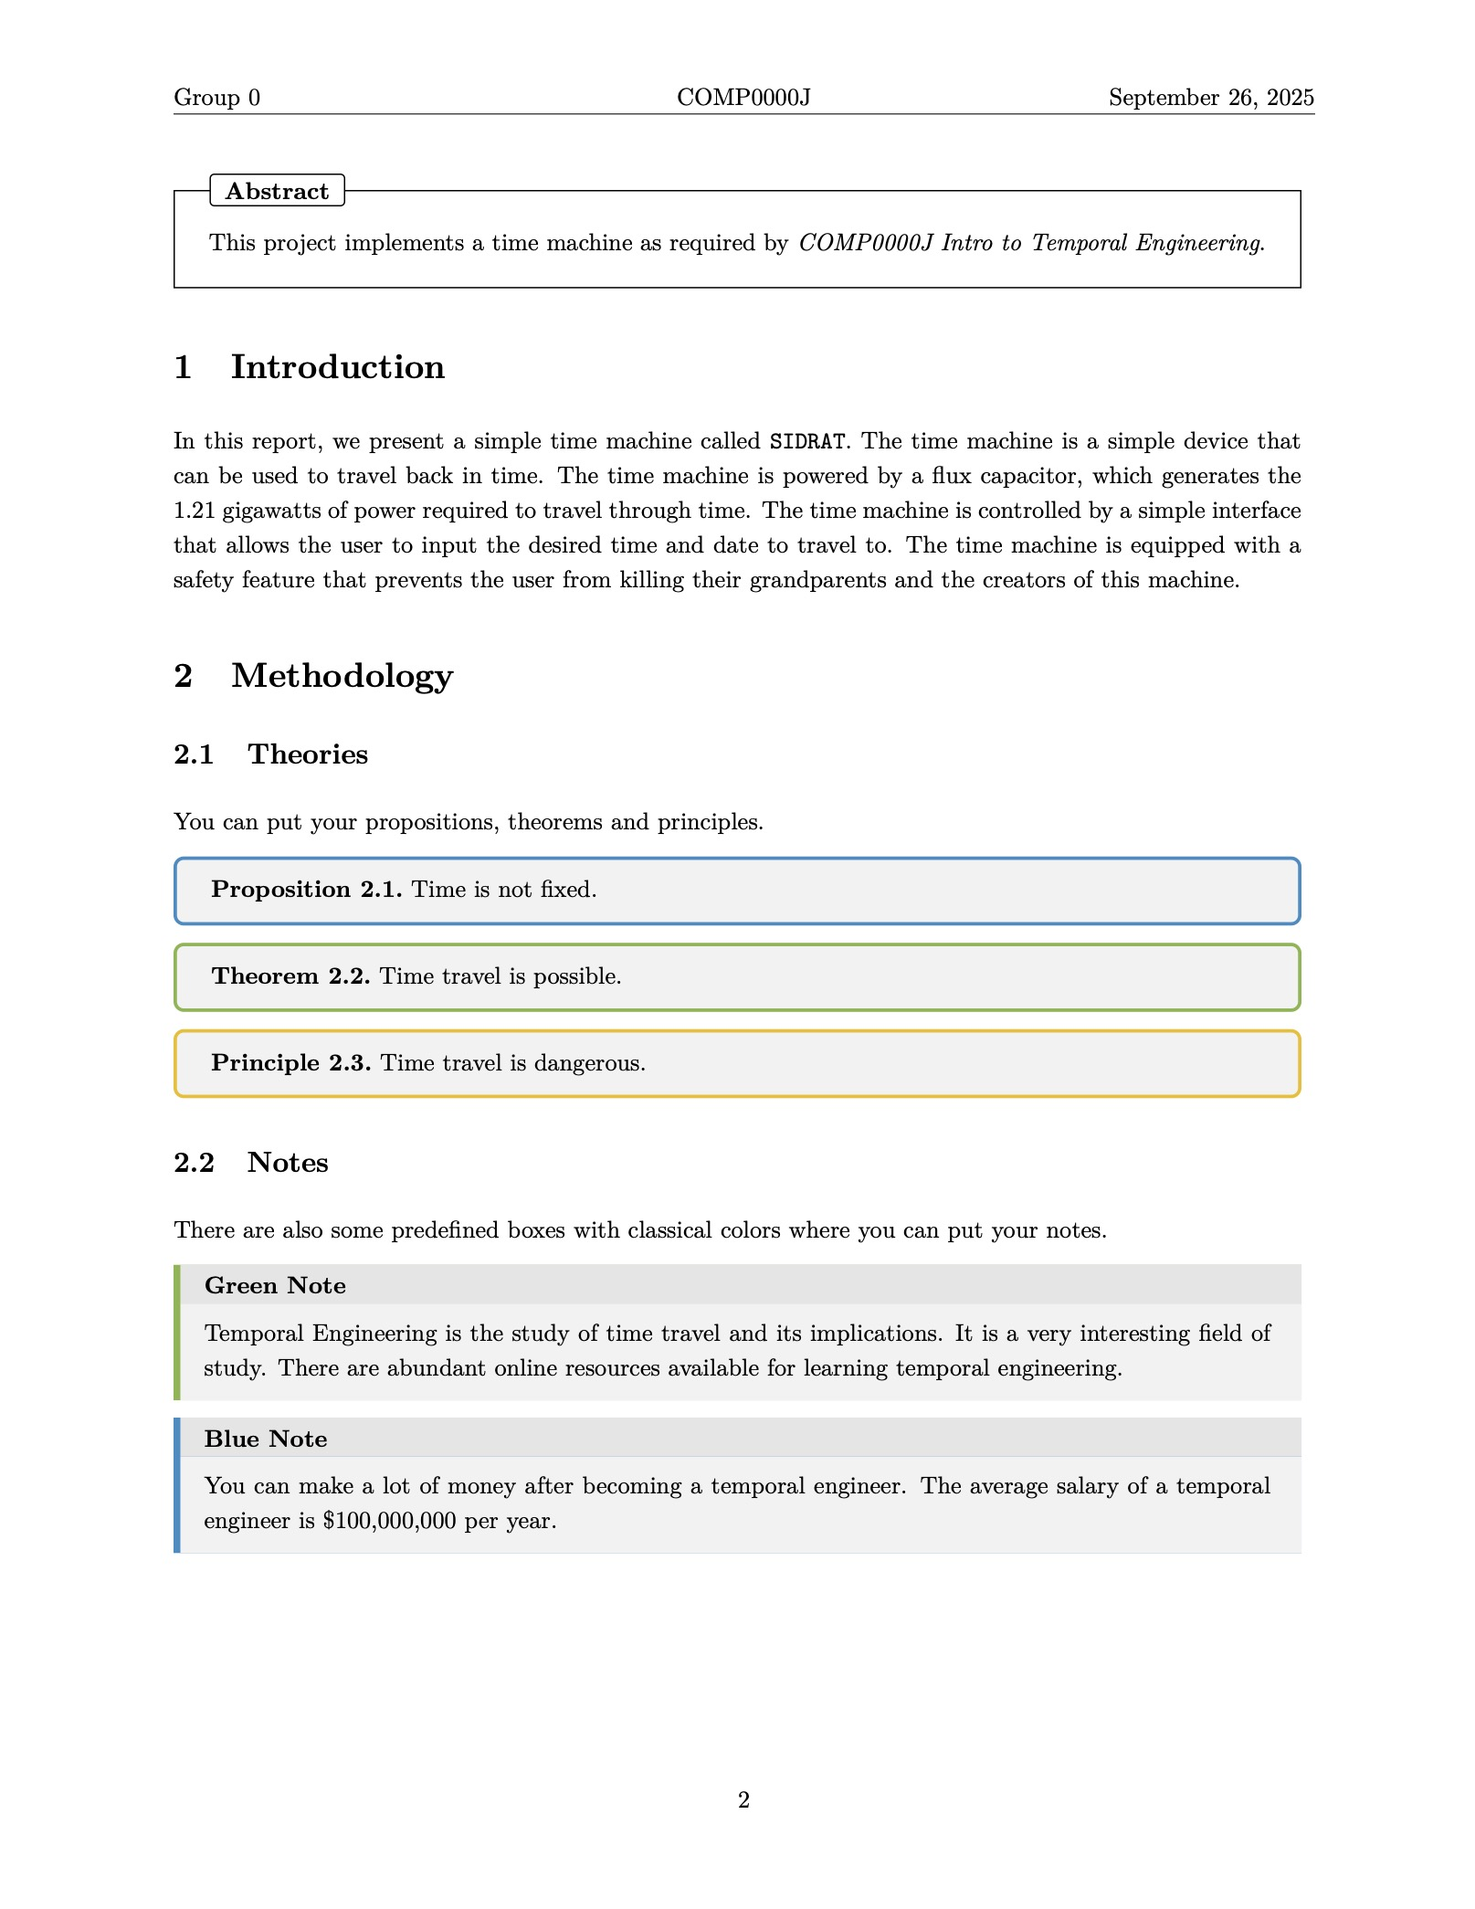
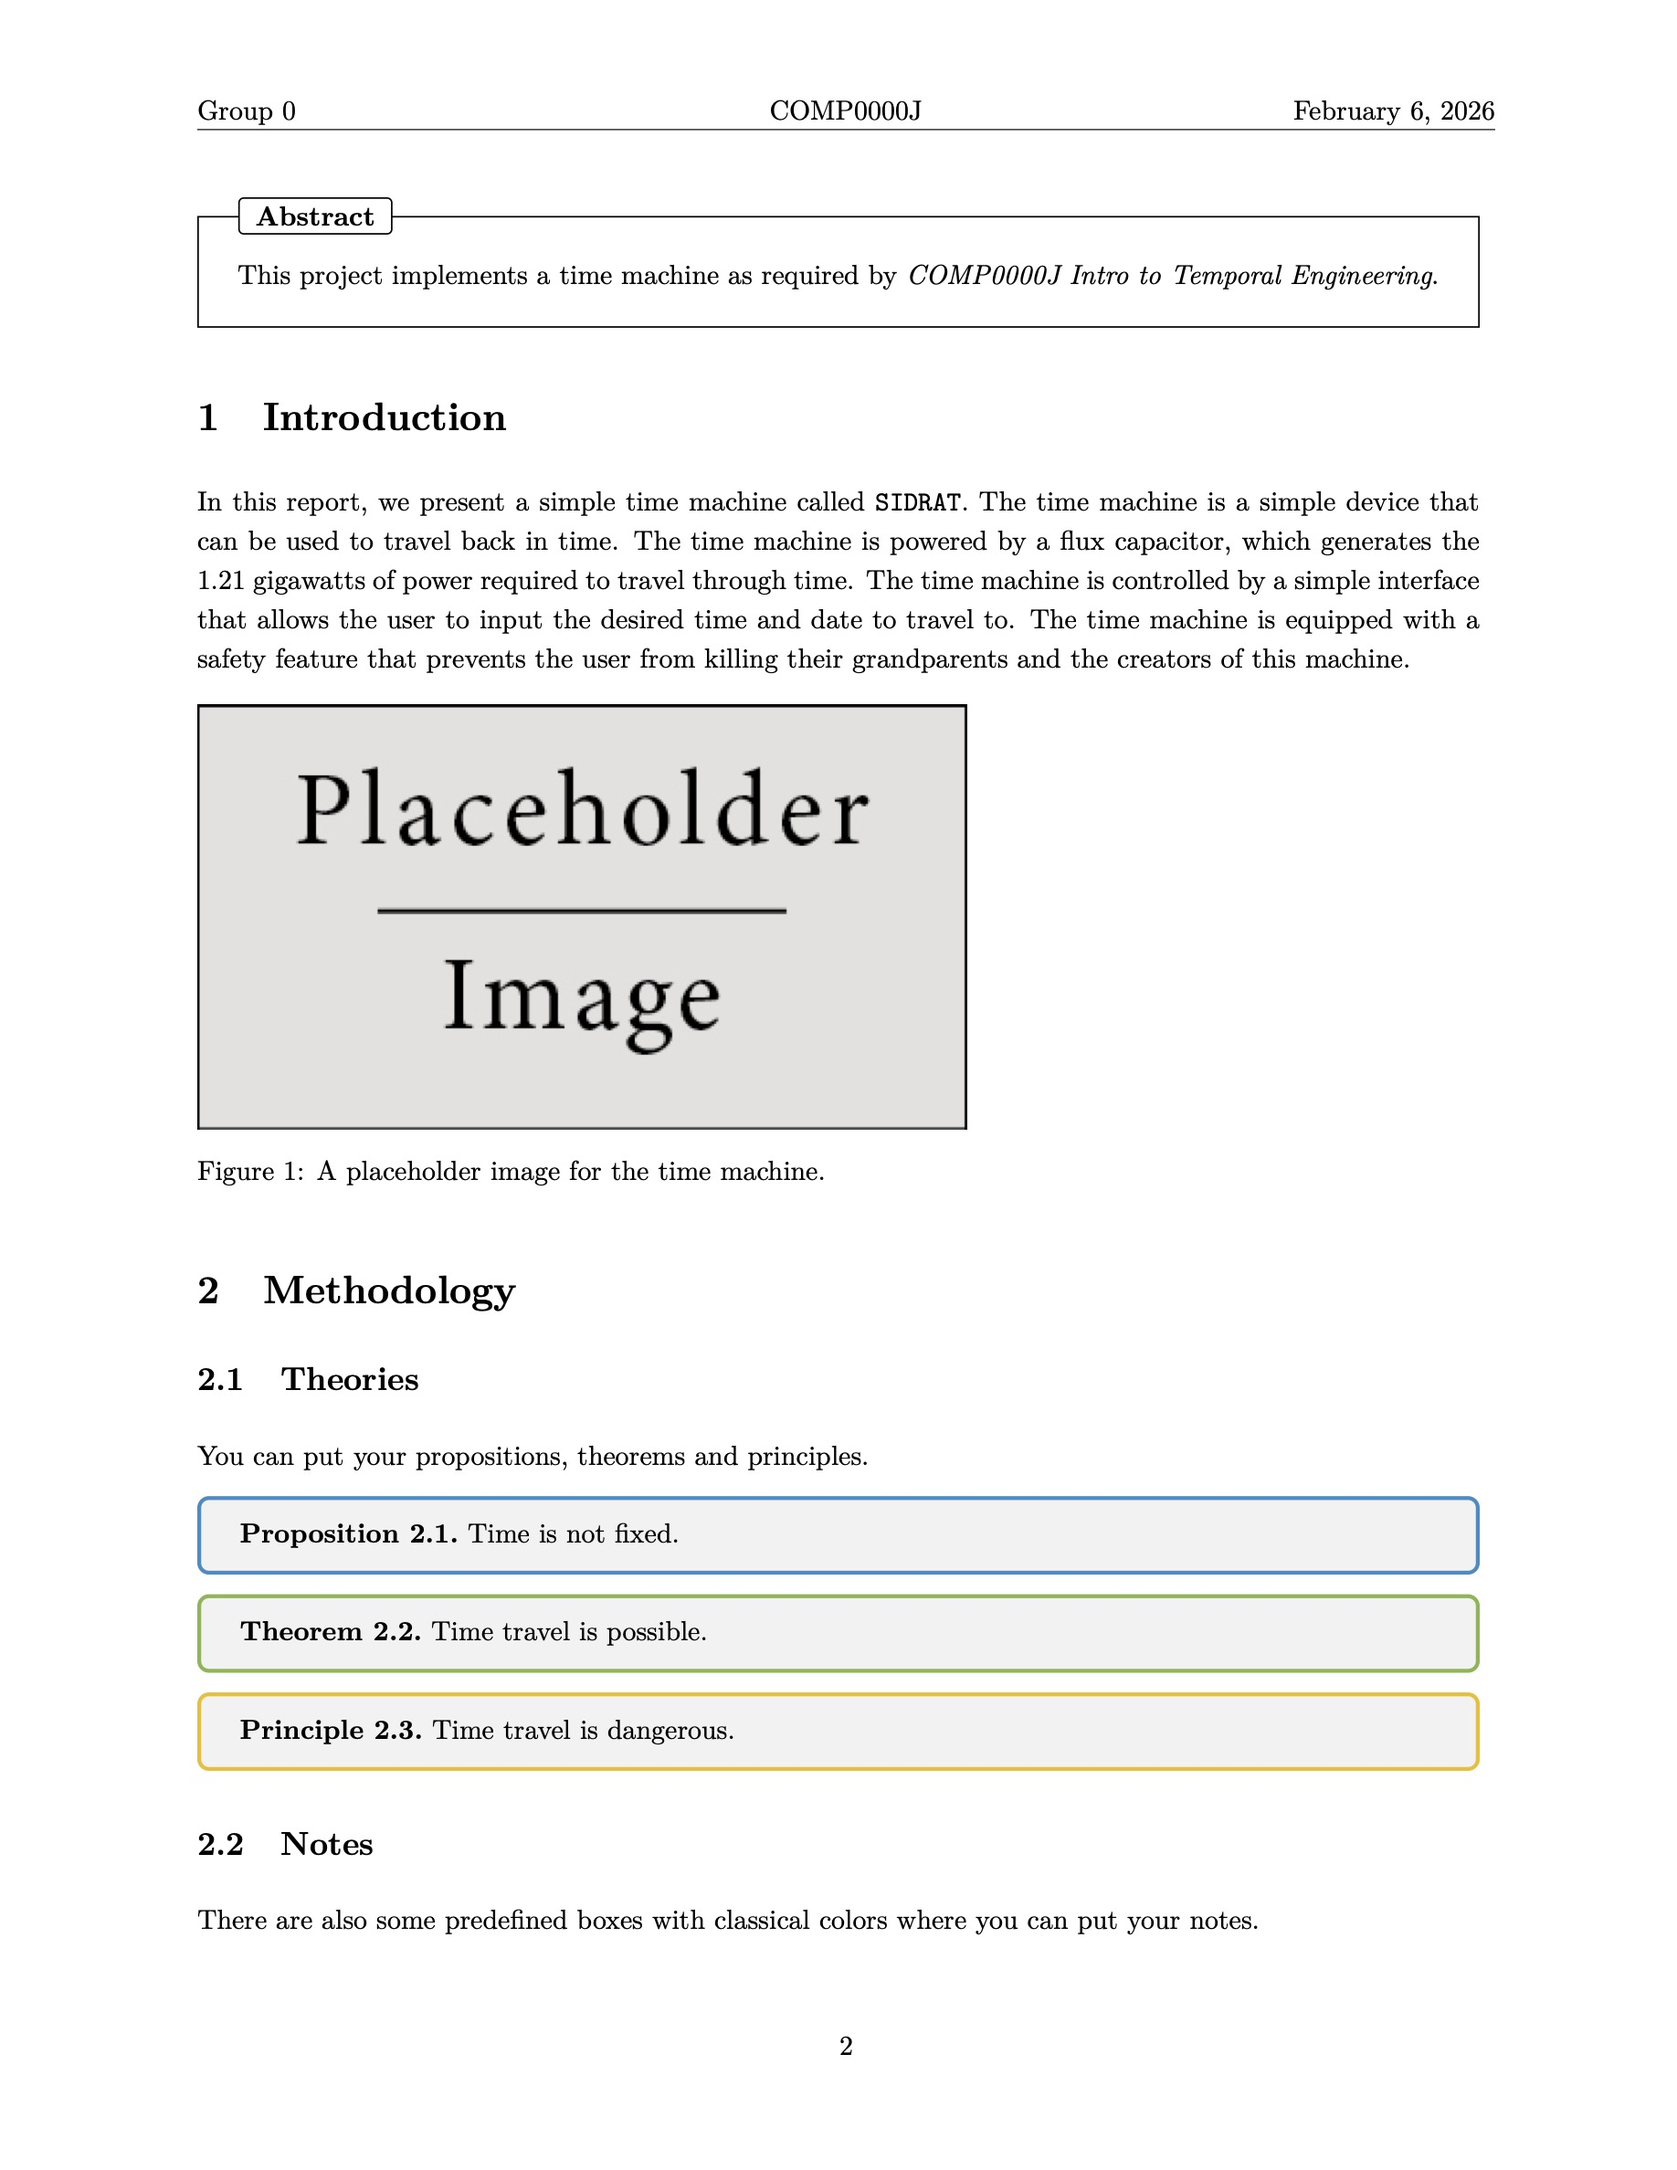
Refine the style for cations and the compact title
And improve README.md as well.

diff --git a/src/intro.tex b/src/intro.tex
@@ -1,1 +1,7 @@
 In this report, we present a simple time machine called \texttt{SIDRAT}. The time machine is a simple device that can be used to travel back in time. The time machine is powered by a flux capacitor, which generates the 1.21 gigawatts of power required to travel through time. The time machine is controlled by a simple interface that allows the user to input the desired time and date to travel to. The time machine is equipped with a safety feature that prevents the user from killing their grandparents and the creators of this machine.
+
+\begin{figure}[ht!]
+    \includegraphics[width=0.6\textwidth]{figures/placeholder.jpg}
+    \caption{A placeholder image for the time machine.}
+    \label{fig:placeholder}
+\end{figure}

diff --git a/src/code_impl.tex b/src/code_impl.tex
@@ -12,3 +12,22 @@ def time_machine_controller():
     print("ERROR: You are now stuck in the year 2099.")
     print("ERROR: GOOD LUCK!")
 \end{lstlisting}
+
+Maybe you would like a binary tree. \par
+\begin{tikzpicture}[
+  level distance=1.5cm,
+  level 1/.style={sibling distance=3cm},
+  level 2/.style={sibling distance=1.5cm},
+  every node/.style={circle, draw, minimum size=0.8cm}
+  ]
+  \node {1}
+    child {node {2}}
+    child {node {3}};
+
+  % Define nodes
+  \node (A) at (3,0) {A};
+  \node (B) at (6,0) {B};
+
+  % Draw arrow from A to B
+  \draw[->, thick] (A) -- (B);
+\end{tikzpicture}

diff --git a/main.tex b/main.tex
@@ -87,6 +87,6 @@
     \input{src/conclusion.tex}
 
 % Print bibliography
-\printbibliography[heading=bibliography, title={References}]
+% \printbibliography[heading=bibliography, title={References}]
 
 \end{document}

diff --git a/README.md b/README.md
@@ -37,7 +37,11 @@ An elegant and professional LaTeX template designed for academic reports across 
 
 2. **Editing:** 在编辑文章的不同部分时，最好把每部分的内容分别放到 `src` 路径下的不同文件中，以使主 TeX 文件更加整洁。*(When editing different sections of the document, it is better to put each section into a separate file under the `src` directory to keep the main TeX file neat and clear.)*
 
-3. **Using with Overleaf:** 如果需要在 Overleaf 上编辑该文档，首先在 *Release* 页面下载 **latex-template-release.zip** 文件，然后在 Overleaf 上选择 **New Project > Upload Project**，再把 `.zip` 文件拖到弹出的窗口中即可。*(To edit the document on Overleaf, first download `latex-template-release.zip` from the Releases page. Then, in Overleaf, select **New Project > Upload Project** and simply drag the `.zip` file into the popup window.)*
+3. **Using the template:** 在 [release](https://github.com/peylix/bdic-report-template-latex/releases) 页面下载 `report-template-release.zip` 或 `report-template-release.tar.gz` 文件。*(Download `report-template-release.zip` 或 `report-template-release.tar.gz` from [release](https://github.com/peylix/bdic-report-template-latex/releases).)*
+
+   - 如果使用 Overleaf，在其页面上选择 **New Project > Upload Project**，再把 `.zip` 文件拖到弹出的窗口中即可。*(If you are using Overleaf, go to **New Project > Upload Project** and drag the `.zip` file into the upload window.)*
+   - 如果更想用本地编辑器（如TeXShop、Neovim、VS Code等），可以解压该压缩包，再打开 `main.tex` 来编辑。*(If you prefer using local editors (e.g., TeXShop, Neovim, VS Code, etc.), unzip the file and open `main.tex` to start editing.)*
+
 
 4. **Customizing:** 该文档的代码中提供了多种选项，可以被方便地启用或禁用。`.cls` 文件的代码十分简单且结构清晰，用户可以对其进行修改来贴合具体需求。 *(There are plenty of options in the template code that are easy to enable or disable. The source code for the `.cls` file is simple and well-structured and you can easily customize the template to suit your needs.)*
 
